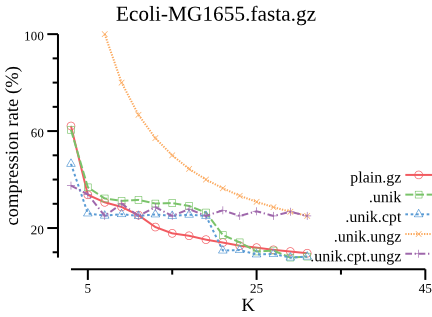
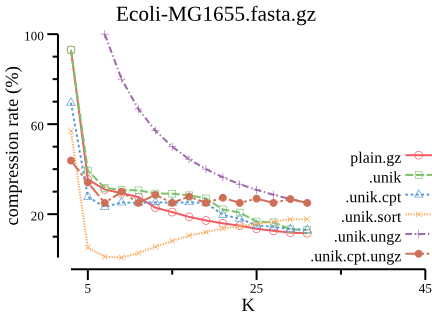
update compression rate comparison

diff --git a/README.md b/README.md
@@ -112,14 +112,16 @@ optionally compressed in gzip format with extension of `.unik`.
 ![Ecoli-MG1655.fasta.gz.cr.tsv.png](testdata/Ecoli-MG1655.fasta.gz.cr.tsv.png)
 ![A.muciniphila-ATCC_BAA-835.fasta.gz.cr.tsv.png](testdata/A.muciniphila-ATCC_BAA-835.fasta.gz.cr.tsv.png)
 
-label           |encoded-kmer<sup>a</sup>|gzip-compressed<sup>b</sup>|compact-format<sup>c</sup>|comment
-:---------------|:----------------------:|:-------------------------:|:------------------------:|:------------------------------------------------------
-`plain`         |                        |                           |                          |plain text
-`plain.gz`      |                        |✔                          |                          |gzipped plain text
-`.unik`         |✔                       |✔                          |                          |gzipped encoded kmer in fixed-length byte array
-`.unik.cpt`     |✔                       |✔                          |✔                         |gzipped encoded kmer in shorter fixed-length byte array
-`.unik.ungz`    |✔                       |                           |                          |encoded kmer in fixed-length byte array
-`.unik.cpt.ungz`|✔                       |                           |✔                         |encoded kmer in shorter fixed-length byte array
+label           |encoded-kmer<sup>a</sup>|gzip-compressed<sup>b</sup>|compact-format<sup>c</sup>|sorted<sup>d</sup>|comment
+:---------------|:-----------------------|:--------------------------|:-------------------------|:-----------------|:------------------------------------------------------
+`plain`         |                        |                           |                          |                  |plain text
+`plain.gz`      |                        |✔                          |                          |                  |gzipped plain text
+`.unik`         |✔                       |✔                          |                          |                  |gzipped encoded kmer in fixed-length byte array
+`.unik.cpt`     |✔                       |✔                          |✔                         |                  |gzipped encoded kmer in shorter fixed-length byte array
+`.unik.sort`    |✔                       |✔                          |                          |✔                 |gzipped sorted encoded kmers
+`.unik.ungz`    |✔                       |                           |                          |                  |encoded kmer in fixed-length byte array
+`.unik.cpt.ungz`|✔                       |                           |✔                         |                  |encoded kmer in shorter fixed-length byte array
+
 
 - <sup>a</sup> One Kmer is encoded as `uint64` and serialized in 8 Bytes.
 - <sup>b</sup> Kmers file is compressed in gzip format by default,
@@ -128,7 +130,9 @@ label           |encoded-kmer<sup>a</sup>|gzip-compressed<sup>b</sup>|compact-fo
  However few Bytes are needed for short Kmers, e.g., 4 Bytes are enough for
   15-mers (30 bits). This makes the file more compact with smaller file size,
   controled by global option `-c/--compact `.
-- Flag `--canonical` is off when running `unikmer count`.
+- <sup>d</sup> One Kmer is encoded as `uint64`, all kmers are sorted and compressed
+  using varint-GB algorithm.
+- In all test, flag `--canonical` is ON when running `unikmer count`.
 
 
 ### Quick Start

diff --git a/testdata/doc.md b/testdata/doc.md
@@ -2,12 +2,13 @@
 
     f=Ecoli-MG1655.fasta.gz
     # f=A.muciniphila-ATCC_BAA-835.fasta.gz
+    # f=Leishmania-donovani_BPK282A1.fasta.gz # FR799588.2
     ./cr.sh $f > $f.cr.tsv
 
     # plot
-    csvtk cut -t -f 1,8-12 $f.cr.tsv \
-        | csvtk -t rename2 -f 2-6 -p "\(%\)" \
-        | csvtk -t gather  -k group  -v value -f 2-6 \
+    csvtk cut -t -f 1,9-14 $f.cr.tsv \
+        | csvtk -t rename2 -f 2-7 -p "\(%\)" \
+        | csvtk -t gather  -k group  -v value -f 2-7 \
         | csvtk plot line -t -x 1 -y 3 -g 2 \
             --x-min 3 --x-max 45  --y-max 100 --ylab "compression rate (%)" \
             --width 4.5 --height 3.3 \
